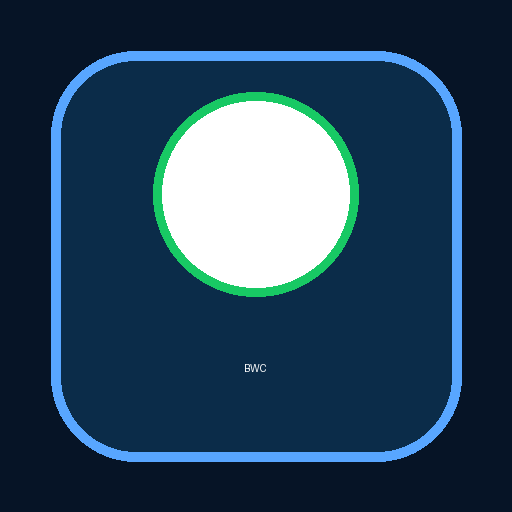
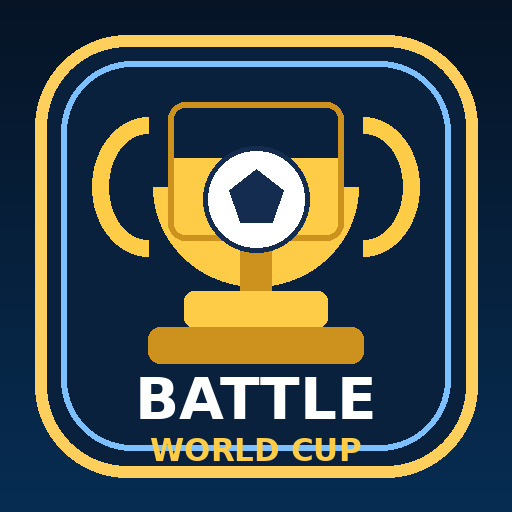
STEO17C GOLDEN BOT AUTOCOMPLET

diff --git a/src/App.css b/src/App.css
@@ -3973,3 +3973,80 @@ th {
 input::placeholder {
   opacity: .75;
 }
+
+
+/* STEP 17C - app icon and Golden Boot autocomplete */
+.player-autocomplete {
+  position: relative;
+  display: grid;
+  gap: 8px;
+}
+
+.player-suggestions {
+  display: grid;
+  gap: 6px;
+  max-height: 260px;
+  overflow-y: auto;
+  padding: 8px;
+  border-radius: 16px;
+  background: rgba(6, 20, 38, .96);
+  border: 1px solid rgba(88, 166, 255, .26);
+  box-shadow: 0 18px 38px rgba(0,0,0,.35);
+  -webkit-overflow-scrolling: touch;
+}
+
+.player-suggestions button {
+  width: 100%;
+  text-align: left;
+  border: 1px solid rgba(255,255,255,.08);
+  background: rgba(255,255,255,.06);
+  color: #fff;
+  border-radius: 12px;
+  padding: 10px 12px;
+  font-weight: 850;
+  cursor: pointer;
+}
+
+.player-suggestions button:hover,
+.player-suggestions button.active {
+  border-color: rgba(255, 207, 94, .7);
+  background: rgba(255, 207, 94, .16);
+}
+
+.player-suggestion-empty {
+  color: #9fb1c8;
+  font-weight: 800;
+  padding: 10px;
+  text-align: center;
+}
+
+.selected-player-chip {
+  display: grid;
+  grid-template-columns: 130px 1fr;
+  gap: 8px;
+  align-items: center;
+  padding: 10px 12px;
+  border-radius: 14px;
+  background: rgba(24, 201, 100, .12);
+  border: 1px solid rgba(24, 201, 100, .24);
+}
+
+.selected-player-chip span {
+  color: #9fb1c8;
+  font-size: 12px;
+  font-weight: 900;
+}
+
+.selected-player-chip strong {
+  color: #fff;
+  overflow-wrap: anywhere;
+}
+
+@media (max-width: 760px) {
+  .selected-player-chip {
+    grid-template-columns: 1fr;
+  }
+  .player-suggestions {
+    max-height: 220px;
+  }
+}

diff --git a/src/App.jsx b/src/App.jsx
@@ -100,9 +100,17 @@ function App() {
     ...topScorers,
     ...players.map((p) => p.label),
   ])).sort((a, b) => a.localeCompare(b));
-  const filteredTopScorers = selectableTopScorers.filter((player) =>
-    normalizeSearchText(player).includes(normalizeSearchText(topScorerSearch))
-  );
+  const normalizedTopScorerSearch = normalizeSearchText(topScorerSearch);
+  const filteredTopScorers = !normalizedTopScorerSearch
+    ? selectableTopScorers
+    : selectableTopScorers
+        .filter((player) => normalizeSearchText(player).startsWith(normalizedTopScorerSearch))
+        .concat(
+          selectableTopScorers.filter((player) =>
+            !normalizeSearchText(player).startsWith(normalizedTopScorerSearch) &&
+            normalizeSearchText(player).includes(normalizedTopScorerSearch)
+          )
+        );
   const t = translations[language] || translations.it;
 
   function formatText(template, values = {}) {
@@ -2034,15 +2042,47 @@ function getPredictionLockText(match) {
                 : `${t.topScorerPredictionCloses}: ${formatTournamentStart()}`}
             </p>
           </div>
-          <input
-            disabled={isTournamentStarted()}
-            placeholder={t.searchPlayer}
-            value={topScorerSearch}
-            onChange={(e) => setTopScorerSearch(e.target.value)}
-          />
-          <select disabled={isTournamentStarted()} value={selectedTopScorer} onChange={(e) => setSelectedTopScorer(e.target.value)}>
-            <option value="">{t.selectPlayer}</option>{filteredTopScorers.map((player) => <option key={player} value={player}>{player}</option>)}
-          </select>
+          <div className="player-autocomplete">
+            <input
+              disabled={isTournamentStarted()}
+              placeholder={t.searchPlayer}
+              value={topScorerSearch}
+              onChange={(e) => {
+                setTopScorerSearch(e.target.value);
+                setSelectedTopScorer("");
+              }}
+            />
+
+            {topScorerSearch && !isTournamentStarted() && (
+              <div className="player-suggestions">
+                {filteredTopScorers.slice(0, 12).map((player) => (
+                  <button
+                    type="button"
+                    key={player}
+                    className={selectedTopScorer === player ? "active" : ""}
+                    onClick={() => {
+                      setSelectedTopScorer(player);
+                      setTopScorerSearch(player);
+                    }}
+                  >
+                    {player}
+                  </button>
+                ))}
+
+                {filteredTopScorers.length === 0 && (
+                  <div className="player-suggestion-empty">{t.noPlayersFound || "No players found"}</div>
+                )}
+              </div>
+            )}
+
+            {selectedTopScorer && (
+              <div className="selected-player-chip">
+                <span>{t.selectedPlayer || t.selectPlayer}</span>
+                <strong>{selectedTopScorer}</strong>
+              </div>
+            )}
+          </div>
+
           <small style={{ display: "block", color: "#9fb1c8", marginBottom: 10 }}>
             {playersLoading ? t.loadingPlayers : `${filteredTopScorers.length}/${selectableTopScorers.length} ${t.playersAvailable}`}
           </small>

diff --git a/src/translations.js b/src/translations.js
@@ -314,7 +314,9 @@ export const translations = {
     "backToTop": "Torna su",
     "positionLabel": "Posizione",
     "groupPositionHeader": "Gruppo / Posizione",
-    "positionShort": "Posizione"
+    "positionShort": "Posizione",
+    "noPlayersFound": "Nessun giocatore trovato",
+    "selectedPlayer": "Giocatore selezionato"
   },
   "en": {
     "appTitle": "Battle World Cup 2026",
@@ -631,7 +633,9 @@ export const translations = {
     "backToTop": "Back to top",
     "positionLabel": "Position",
     "groupPositionHeader": "Group / Position",
-    "positionShort": "Position"
+    "positionShort": "Position",
+    "noPlayersFound": "No players found",
+    "selectedPlayer": "Selected player"
   },
   "ro": {
     "appTitle": "Battle World Cup 2026",
@@ -948,6 +952,8 @@ export const translations = {
     "backToTop": "Înapoi sus",
     "positionLabel": "Poziție",
     "groupPositionHeader": "Grupă / Poziție",
-    "positionShort": "Poziție"
+    "positionShort": "Poziție",
+    "noPlayersFound": "Niciun jucător găsit",
+    "selectedPlayer": "Jucător selectat"
   }
 };

diff --git a/index.html b/index.html
@@ -7,12 +7,12 @@
     <meta name="mobile-web-app-capable" content="yes" />
     <meta name="apple-mobile-web-app-capable" content="yes" />
     <meta name="apple-mobile-web-app-status-bar-style" content="black-translucent" />
-    <meta name="apple-mobile-web-app-title" content="Battle WC" />
-    <meta name="description" content="Battle World Cup 2026 fantasy prediction game" />
+    <meta name="apple-mobile-web-app-title" content="Battle Cup" />
+    <meta name="description" content="Battle World Cup fantasy prediction game" />
     <link rel="manifest" href="/manifest.webmanifest" />
     <link rel="apple-touch-icon" href="/pwa-icon.png" />
     <link rel="icon" type="image/png" href="/pwa-icon.png" />
-    <title>Battle World Cup 2026</title>
+    <title>Battle World Cup</title>
       <link rel="apple-touch-icon" href="/pwa-icon-192.png" />
     <link rel="icon" type="image/png" sizes="192x192" href="/pwa-icon-192.png" />
     <link rel="icon" type="image/png" sizes="512x512" href="/pwa-icon-512.png" />